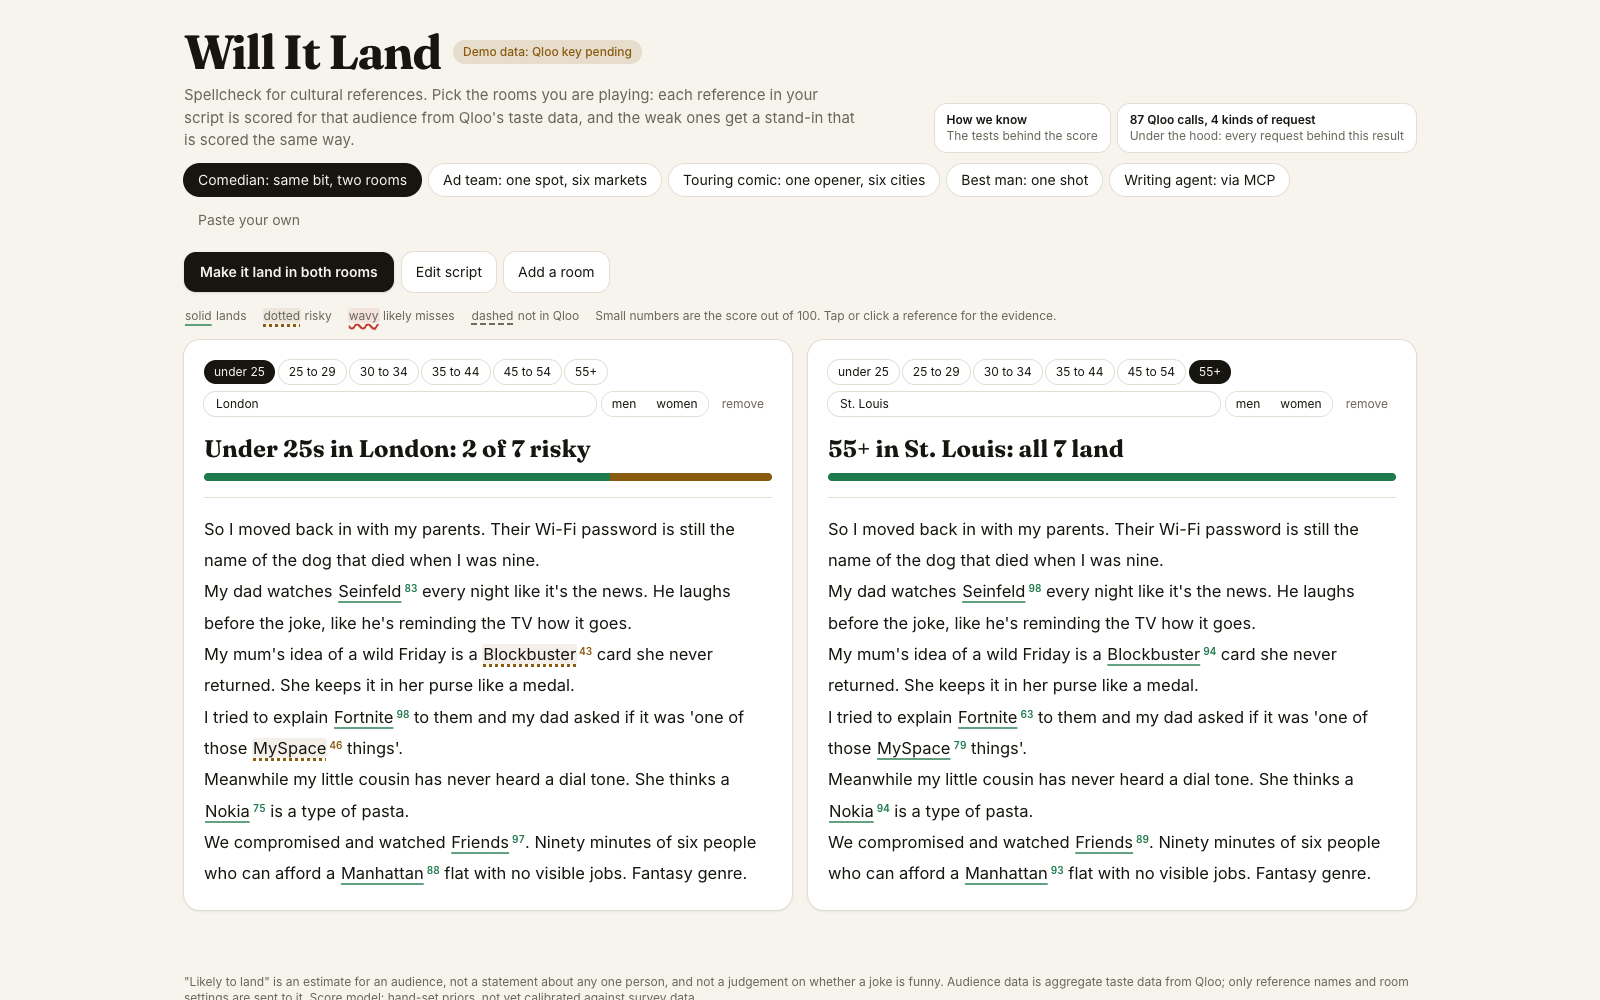
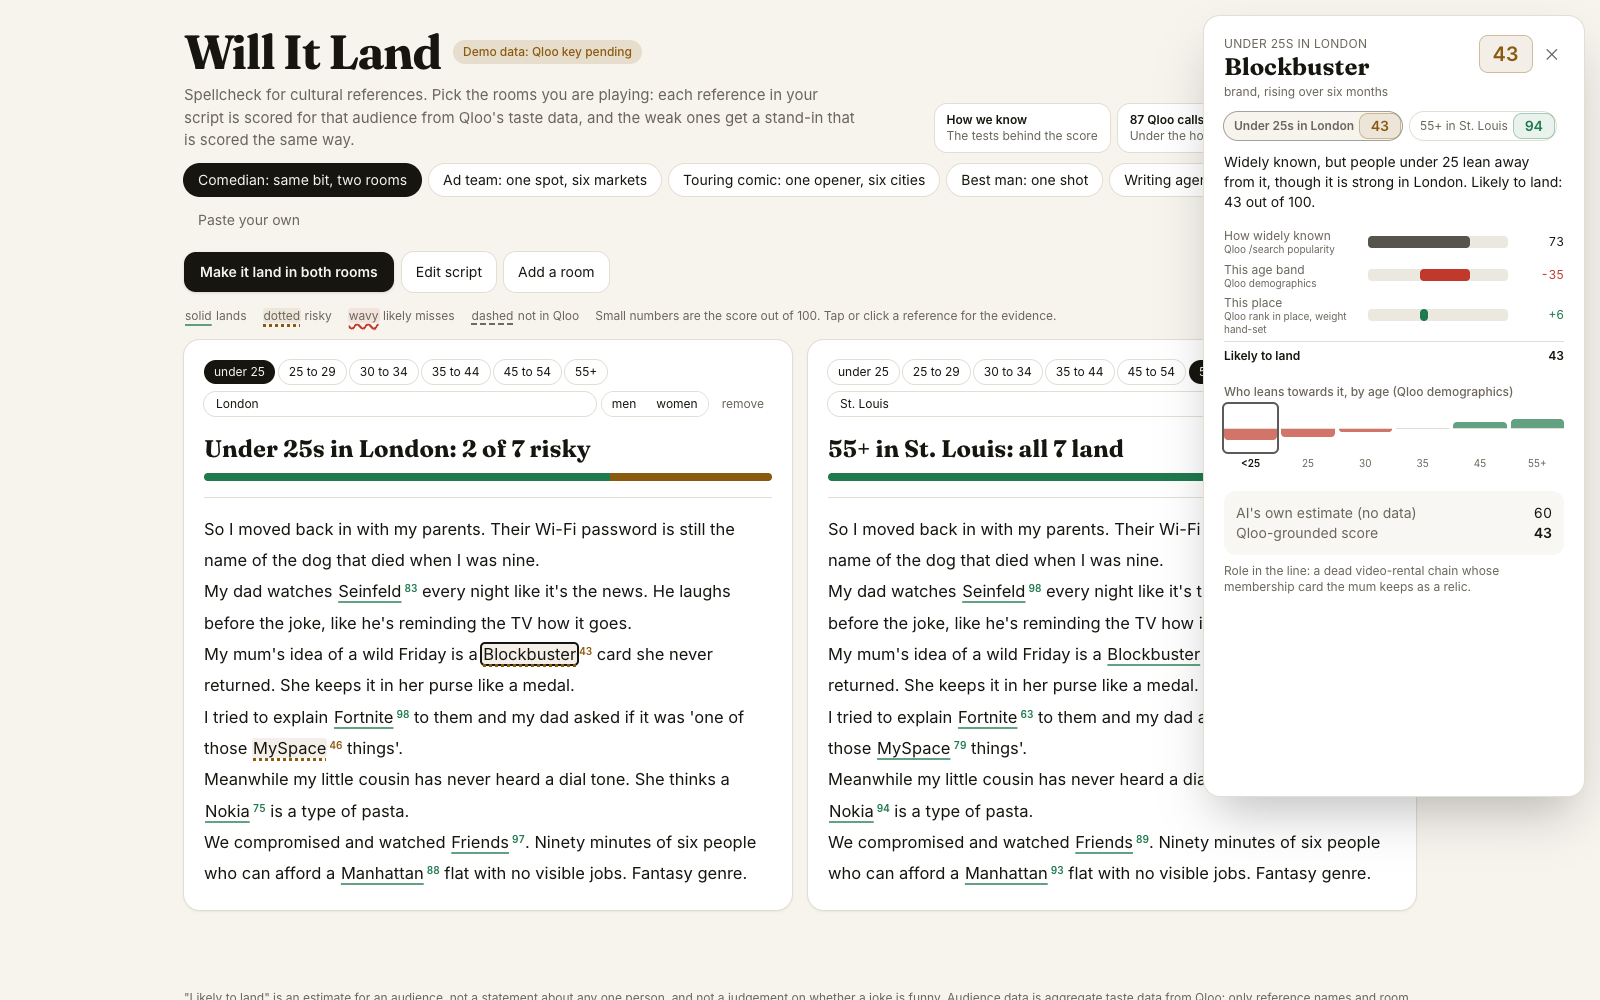
Gallery: six-city grid, real evidence card

diff --git a/tools/screenshots.py b/tools/screenshots.py
@@ -65,10 +65,10 @@ def main():
     click_text("Make it land")
     wait_for("document.body.innerText.includes('Keep this version') || document.body.innerText.includes('No rewrite beat')", 180)
     shot("02-land-in-both-rooms.png")
-    click_text("Ad team")
+    click_text("Touring comic")
     wait_for("document.body.innerText.includes('Lands everywhere') && !document.body.innerText.includes('Re-scoring')")
     time.sleep(1)
-    shot("03-six-markets.png")
+    shot("03-six-cities.png")
     click_text("How we know")
     time.sleep(1.5)
     shot("05-how-we-know.png")
